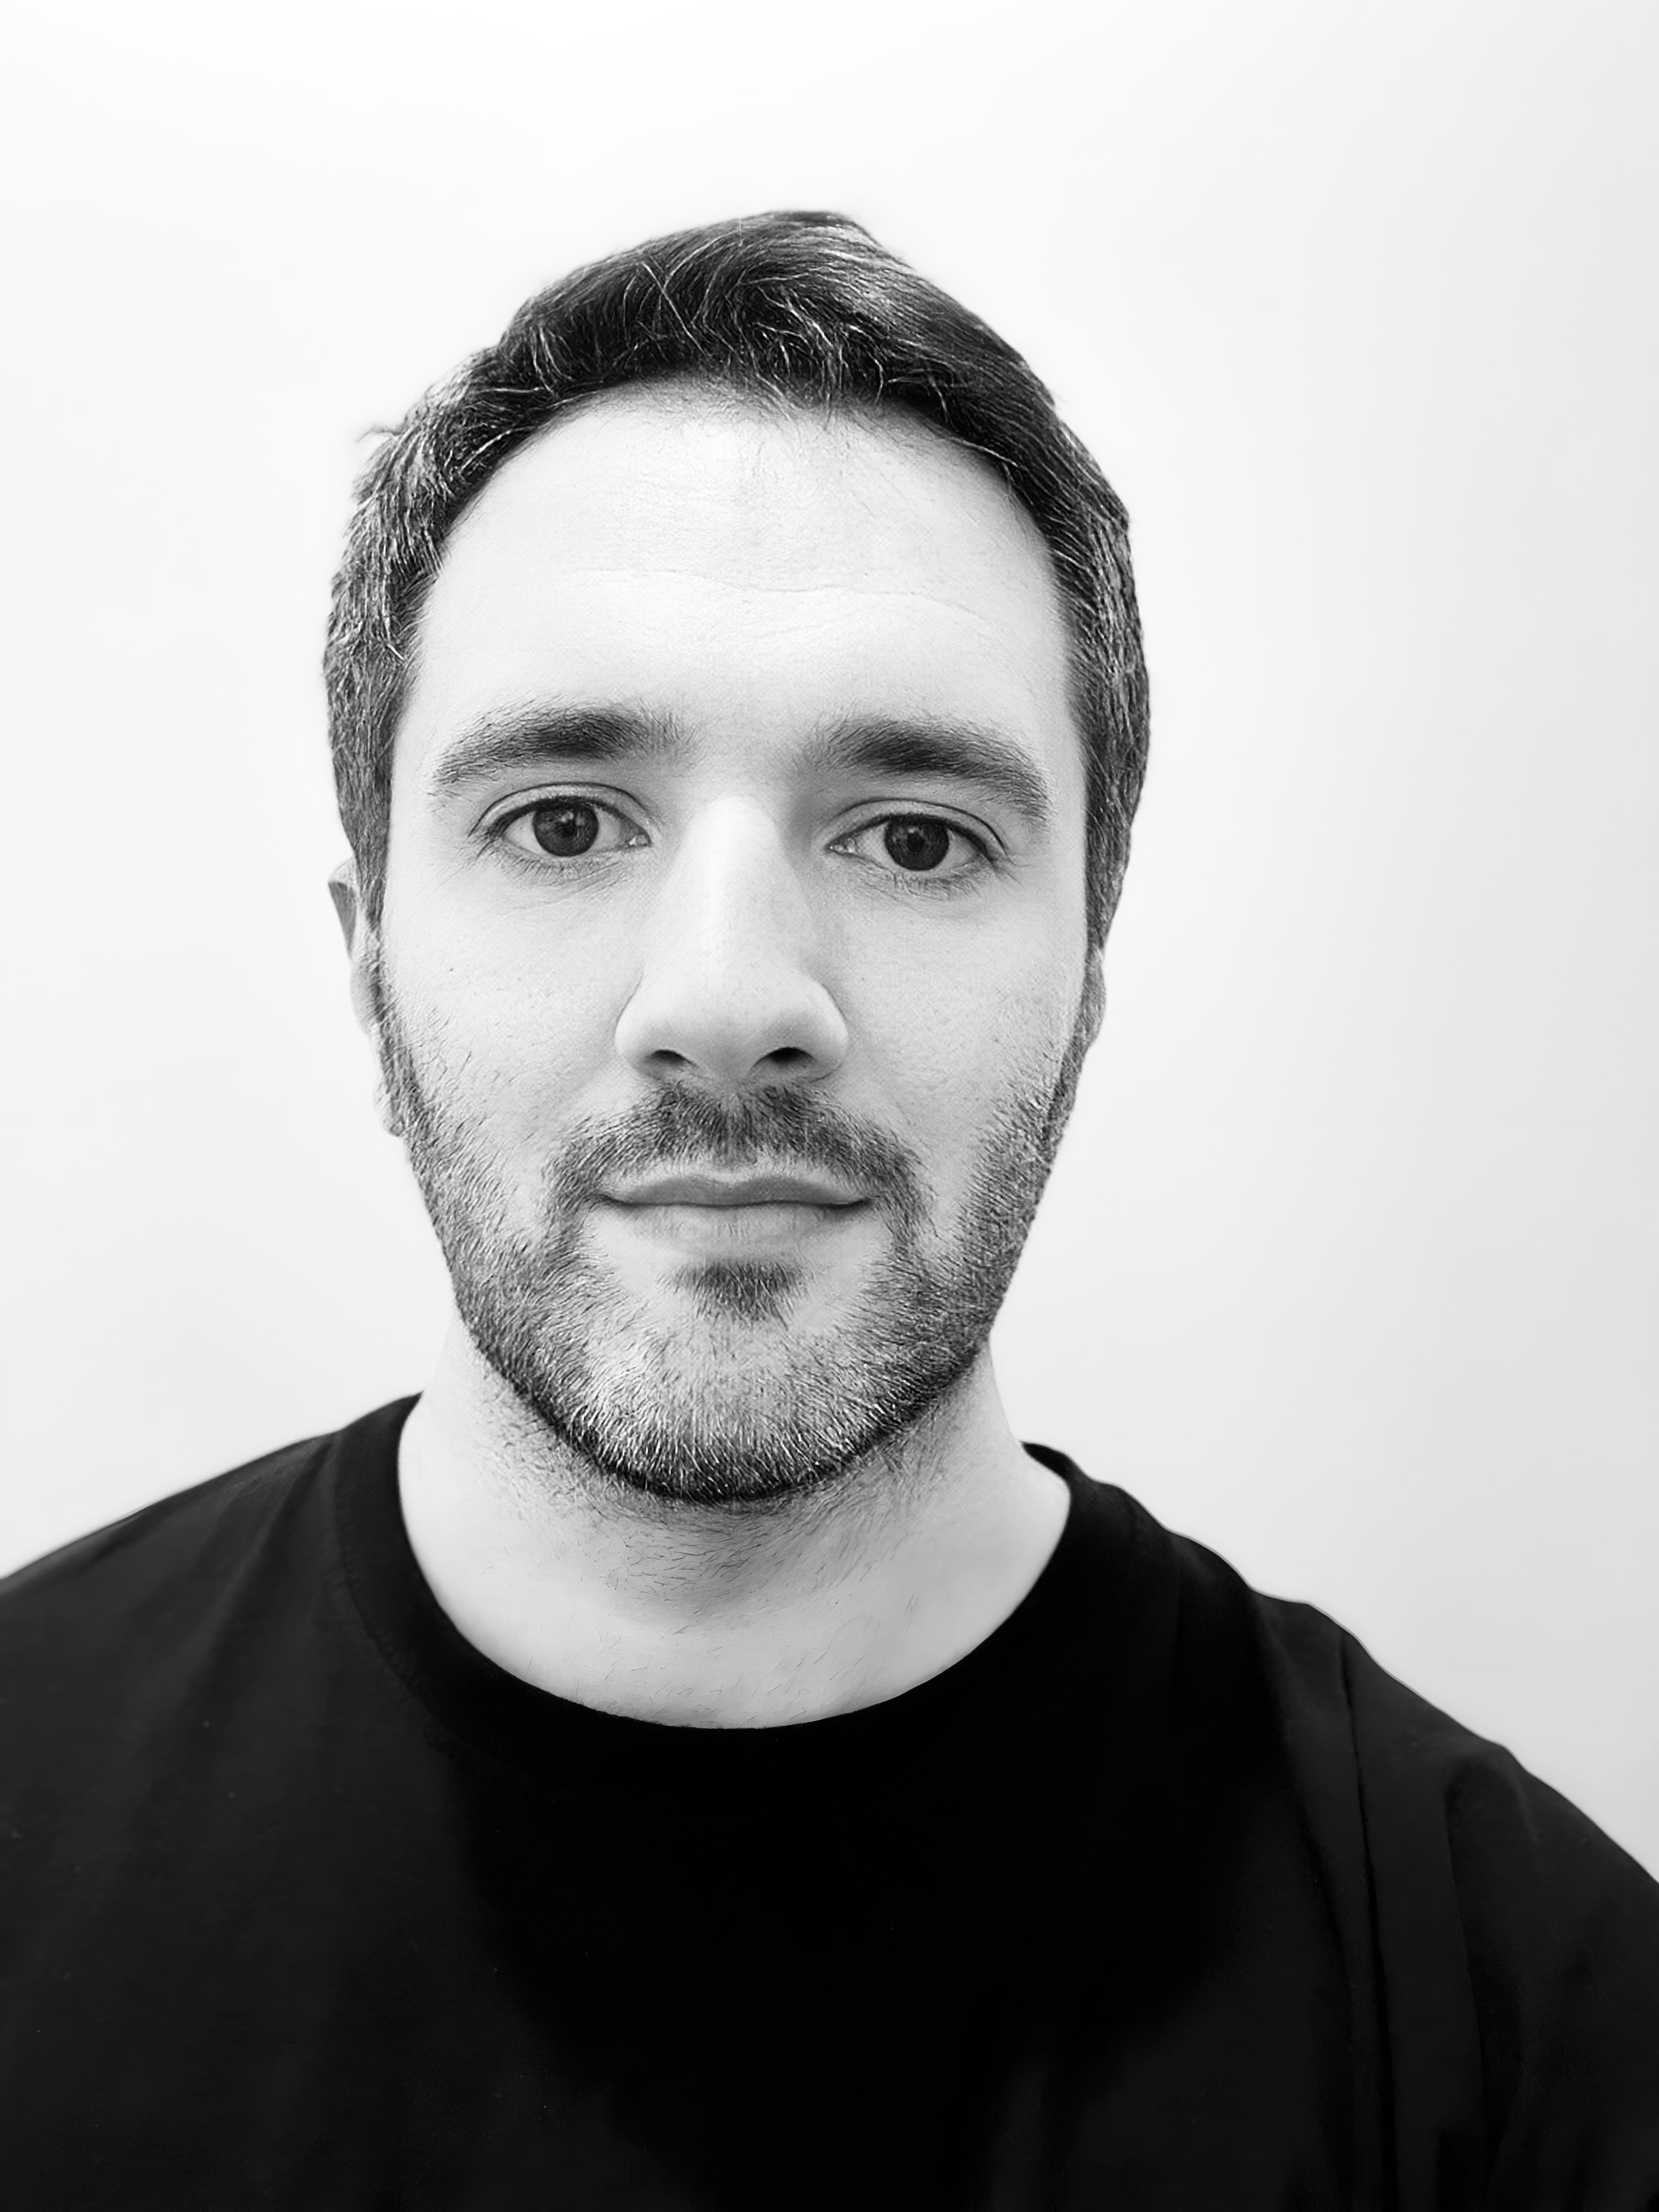
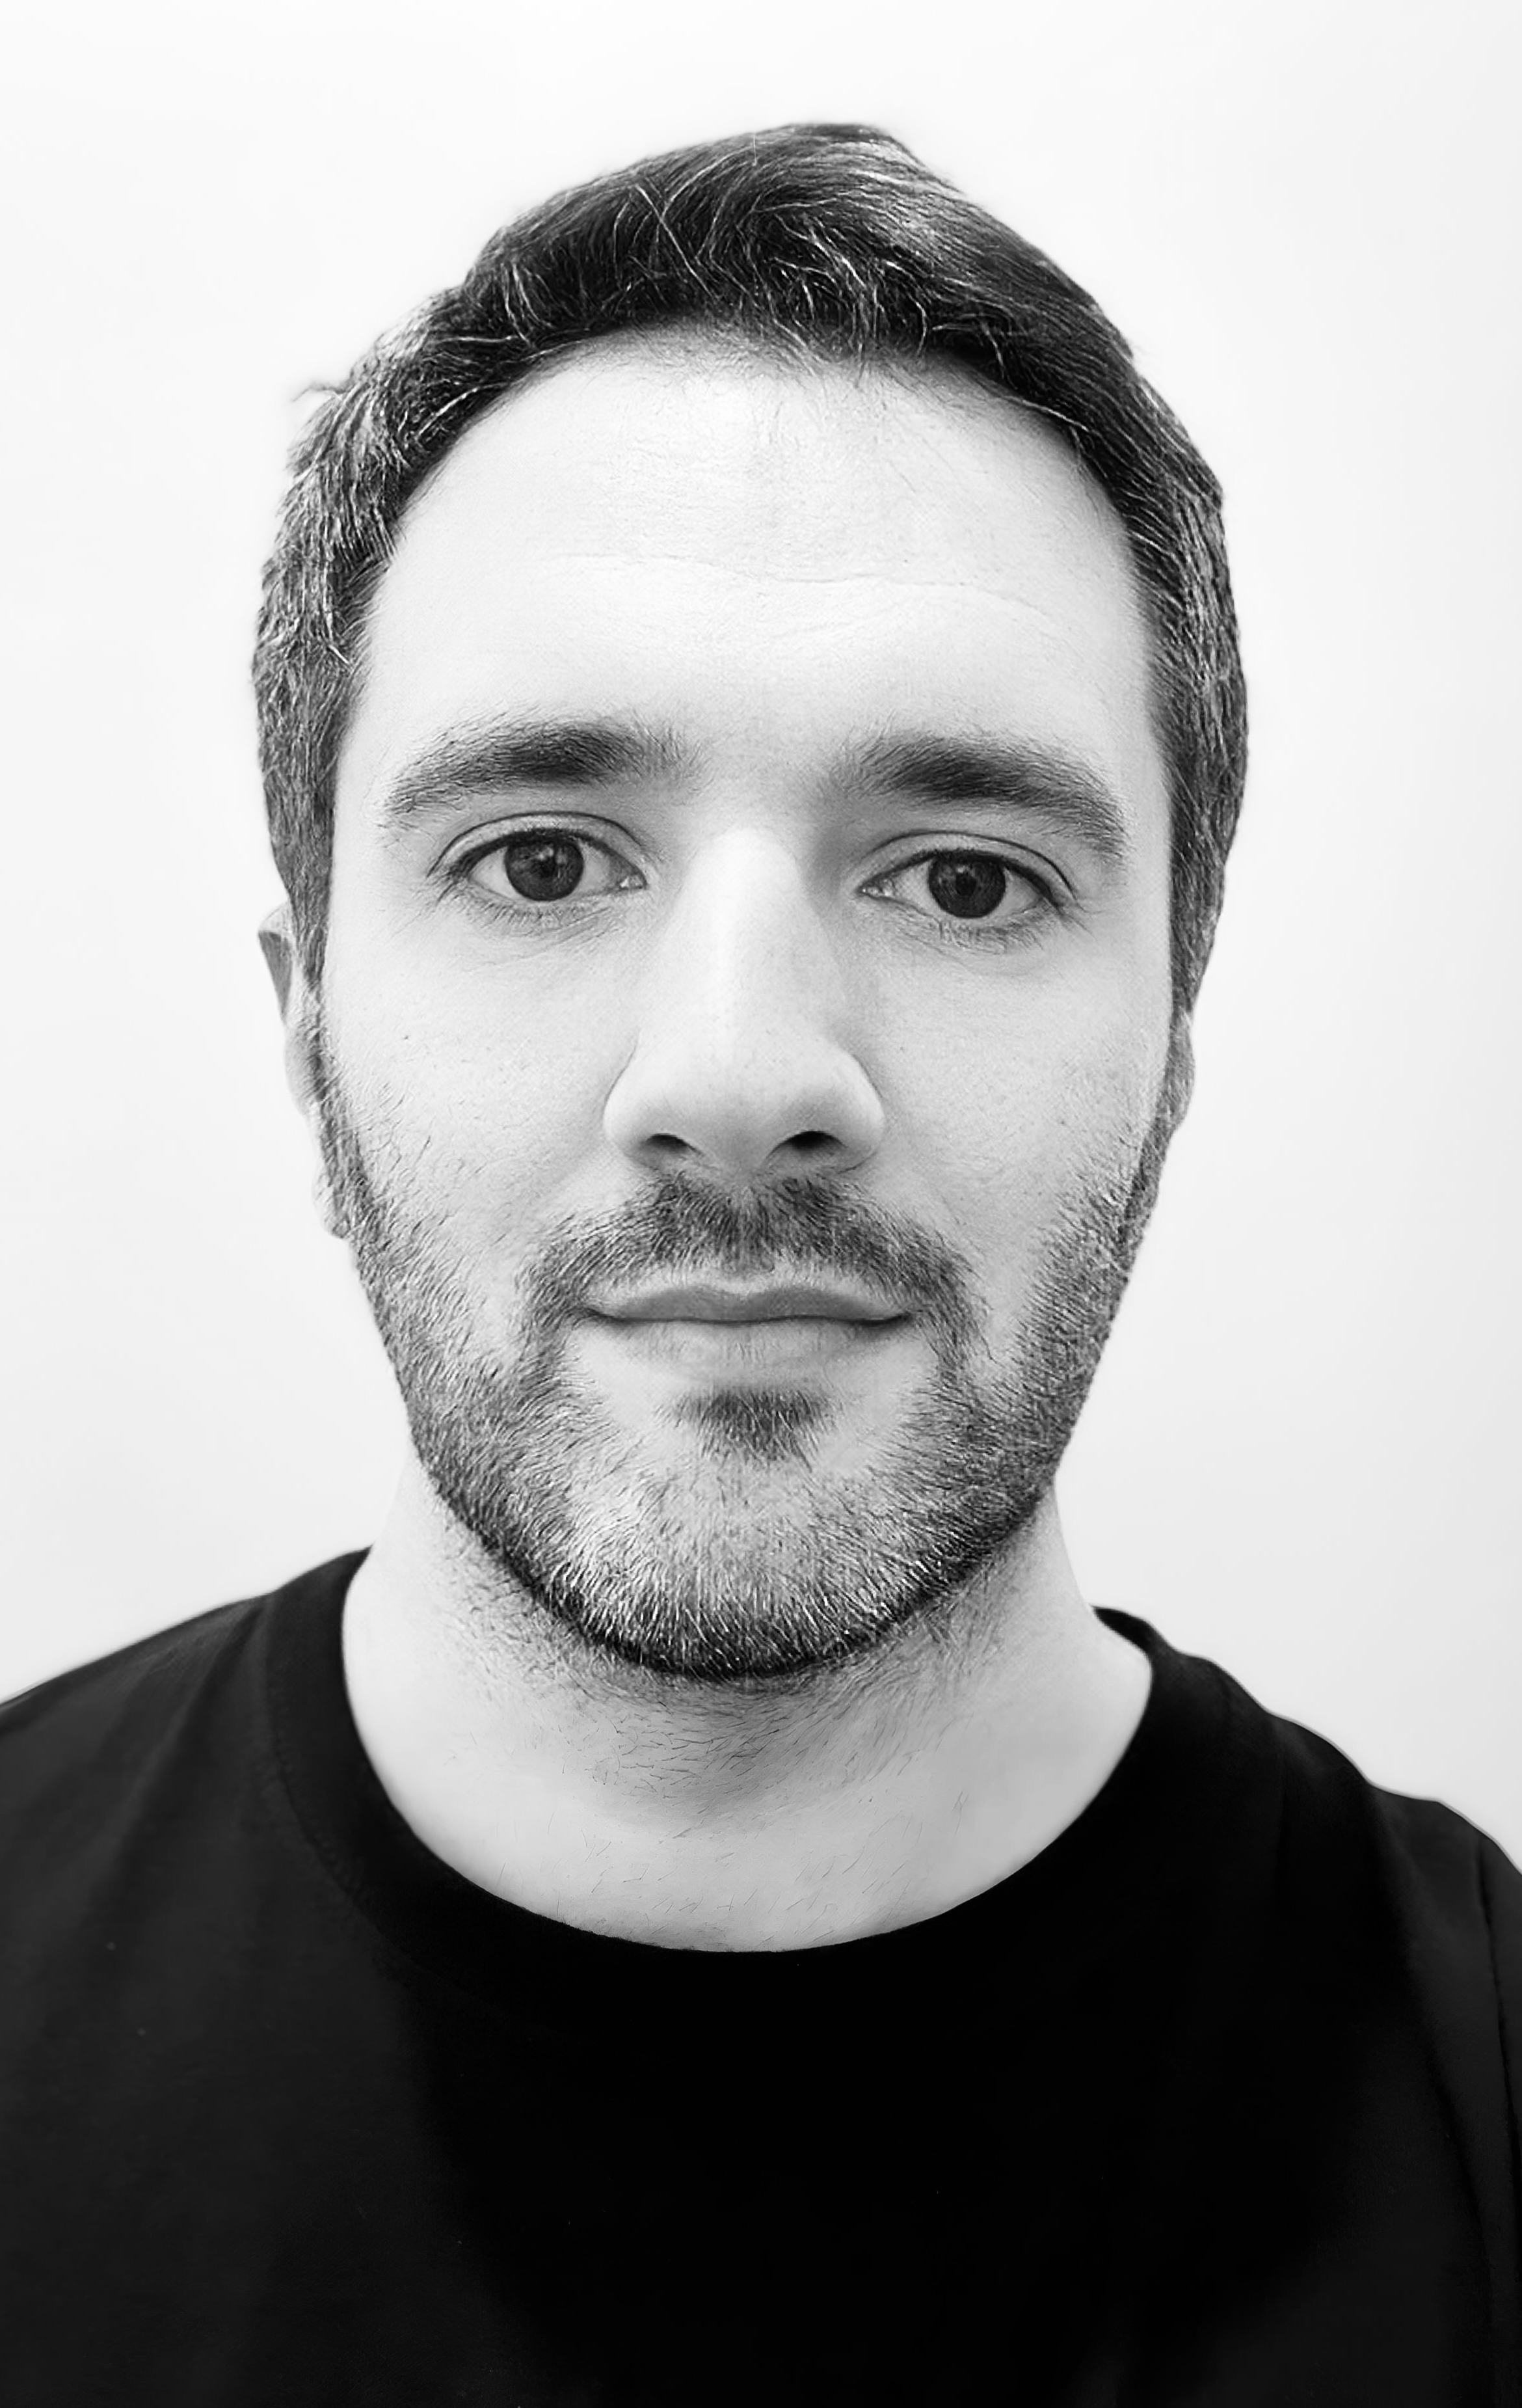
Add files via upload

Changed region(s): [[0.156, 0.0311, 1.0, 0.87], [0.0936, 0.6525, 0.1872, 0.6836], [0.0, 0.6836, 0.0936, 0.7147]]

diff --git a/index.html b/index.html
@@ -57,7 +57,7 @@
       width: 100%;
       height: 100%;
       object-fit: cover;
-      object-position: center 15%;
+      object-position: center top;
       display: block;
       filter: grayscale(100%);
       opacity: 0.92;
@@ -74,8 +74,8 @@
     .name {
       font-family: 'EB Garamond', Georgia, serif;
       font-weight: 400;
-      font-size: clamp(2rem, 3.5vw, 3.2rem);
-      line-height: 1.1;
+      font-size: clamp(1.6rem, 2.8vw, 2.6rem);
+      line-height: 1.15;
       letter-spacing: -0.01em;
       white-space: nowrap;
     }